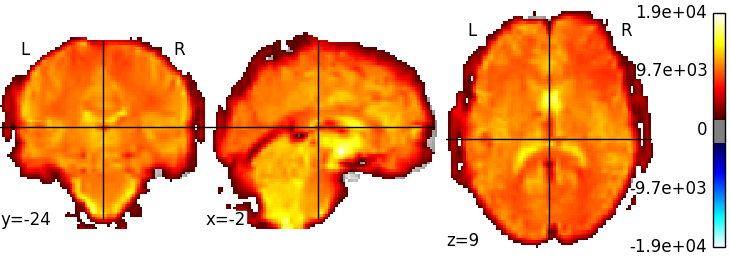
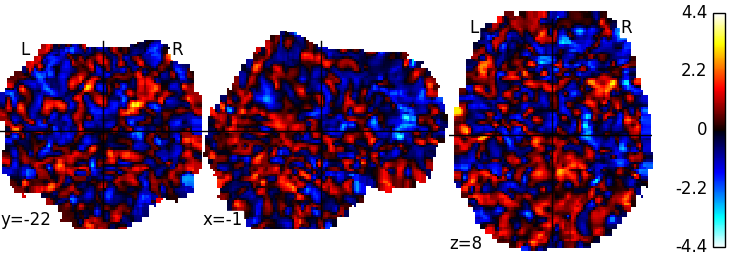
updating plotting code and images to reflect the preprocessing that happened in the analysis

diff --git a/src/visualization/plot_graphs.py b/src/visualization/plot_graphs.py
@@ -1,4 +1,5 @@
 from nilearn import image
+from nilearn import input_data
 from nilearn import plotting
 
 
@@ -32,17 +33,32 @@ def plot_connectome2d(graph, show_plot=False, save_image=None):
 def plot_filtered_mni(fmri_task_data, show_plot=False, save_image=None):
 
     _, filtered_mni = fmri_task_data.filtered_mni_image
+    _, c = fmri_task_data.confounds
 
+    masker = input_data.NiftiMasker(detrend=True,
+       low_pass=None, high_pass=0.01, t_r=2.5, standardize=True)
+
+    masker.fit(filtered_mni)
+
+    hv_confounds = image.high_variance_confounds(filtered_mni)
+    img_2darray = masker.transform(filtered_mni, confounds=[hv_confounds, c])
+
+    # Turn into a NIfTI image:
+    pimg = masker.inverse_transform(img_2darray)
+
+    # Grab a frame to plot
     i = 0
-    for img in image.iter_img(filtered_mni):
+    for p1img in image.iter_img(pimg):
         if i == 10:
             break
         i += 1
 
-    display = plotting.plot_stat_map(img, threshold=2000)
+    display = plotting.plot_stat_map(p1img)
     
     if save_image:
         display.savefig(save_image)
 
     if show_plot:
         plotting.show()
+
+
